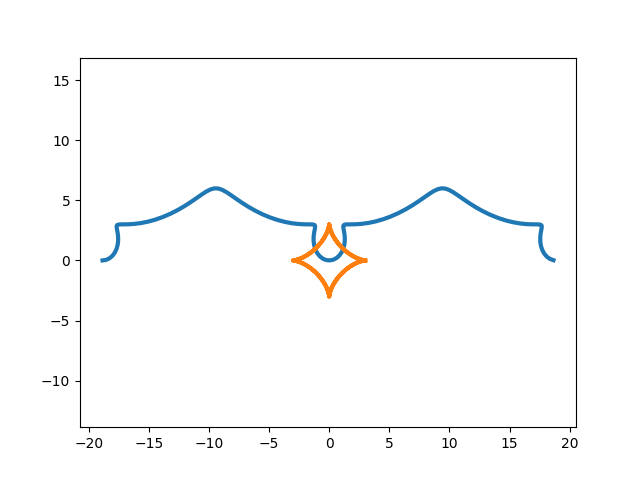
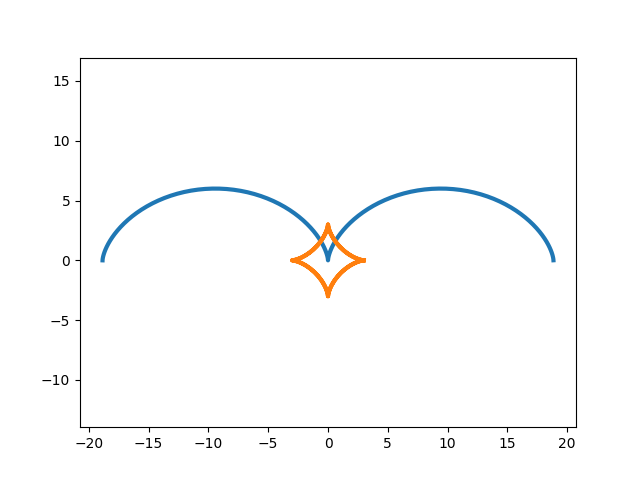
gfj

diff --git a/task_1.py b/task_1.py
@@ -5,8 +5,8 @@ import numpy as np
 def cycloida(R = 3):
     t = np.arange(-2*np.pi, 2*np.pi, 0.1)
     
-    x = R * (t - (np.sin(t)**3))
-    y = R * (1 - (np.cos(t)**3))
+    x = R * (t - (np.sin(t)))
+    y = R * (1 - (np.cos(t)))
     plt.plot(x, y, ls='-', lw=3)
     plt.axis('equal')
  
